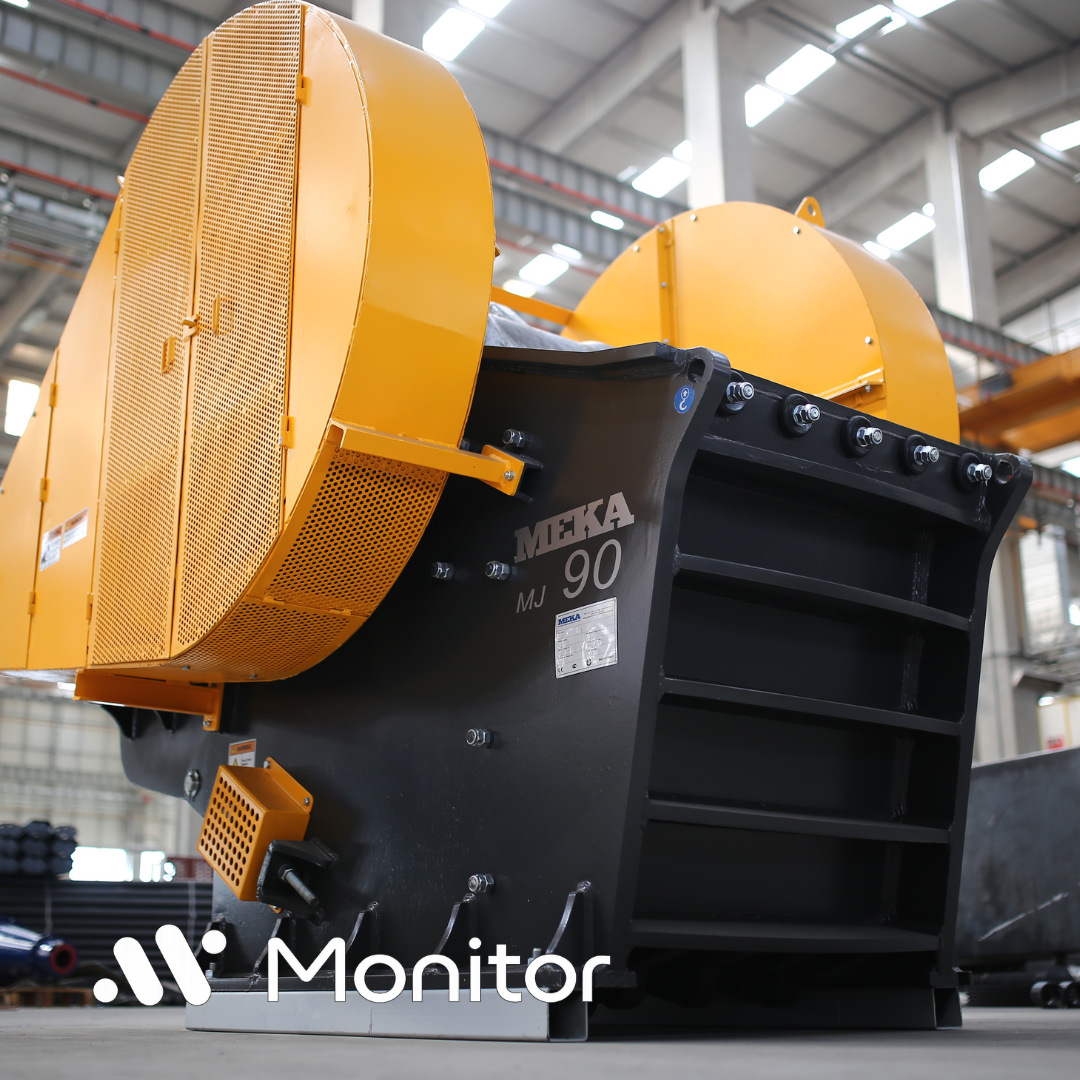
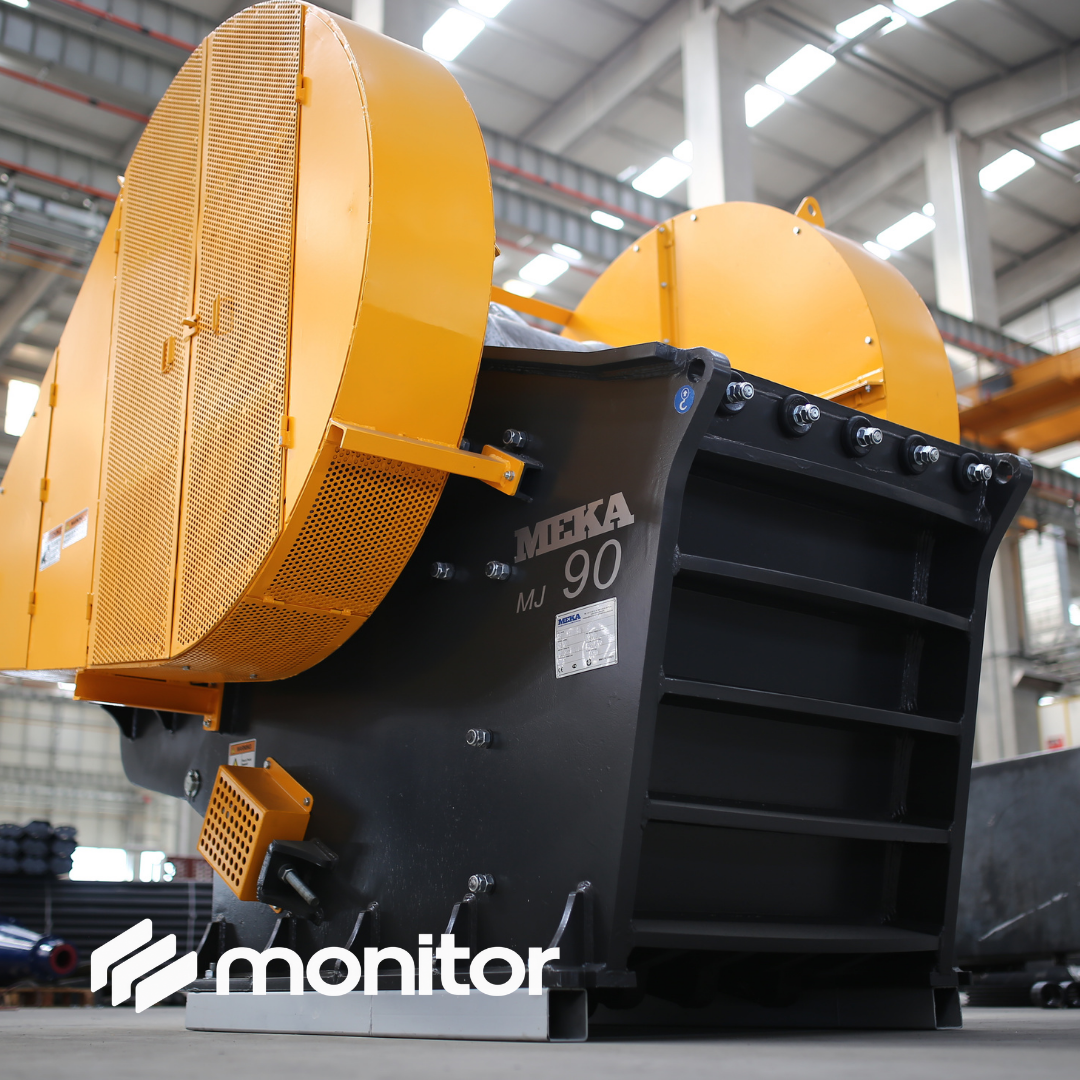
Add Muevo venture (exploring); refresh Monitor tile
- Muevo — vertical platform for Colombia's electric mobility market:
  EV marketplace with intelligence around the vehicle (valuation, residual
  value, battery health, cost of ownership). Ideation stage -> "Exploring".
- Replace the Monitor tile with the updated brand artwork

Changed region(s): [[0.0611, 0.8556, 0.5806, 0.9472]]

diff --git a/app/page.tsx b/app/page.tsx
@@ -105,6 +105,19 @@ const VENTURES = [
       es: "El sistema operativo para empresas de publicidad y producción gráfica.",
     },
   },
+  {
+    key: "muevo",
+    name: "Muevo",
+    category: { en: "Electric Mobility · Marketplace", es: "Movilidad eléctrica · Marketplace" },
+    status: "exploring" as Status,
+    href: "",
+    host: "",
+    img: "muevo-venture.png",
+    blurb: {
+      en: "A vertical platform for Colombia's electric mobility market — an EV marketplace built on intelligence around the vehicle: valuation, residual value, battery health and cost of ownership, so buying used stops feeling like a bet.",
+      es: "Una plataforma vertical para el mercado de movilidad eléctrica en Colombia — un marketplace de vehículos eléctricos con inteligencia alrededor del vehículo: valoración, valor residual, estado de batería y costo de propiedad, para que comprar un usado deje de sentirse como una apuesta.",
+    },
+  },
 ];
 
 /* Products built with partners — proof of the build capability (real, shipped). */
